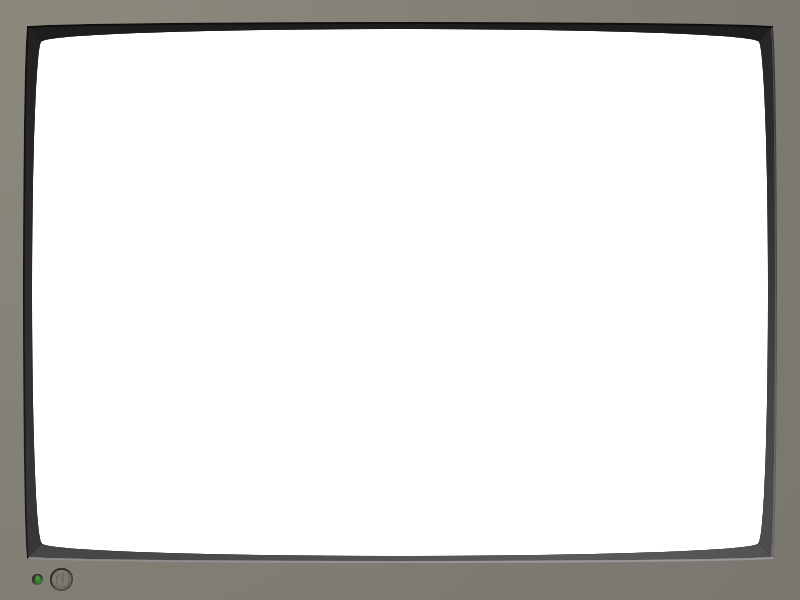
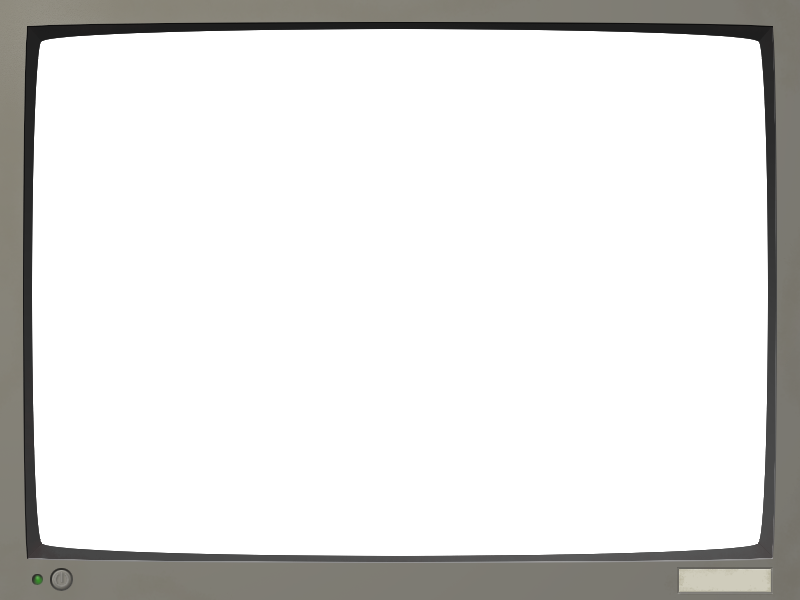
Updated bezel label

Changed region(s): [[0.8438, 0.93, 0.9688, 0.99]]

diff --git a/util.py b/util.py
@@ -76,7 +76,7 @@ def text_align(text, coords, align):
 def render_bezel(label):
     """Render the bezel and label text."""
     bezel = load_image('media/bezel.png')
-    text = load_font(None, 30).render(label, True, (200, 200, 200))
+    text = load_font(None, 30).render(label, True, (60, 60, 60))
 
     # Copy the bezel surface so we don't overwrite the stored cached surface in
     # the media manager.
